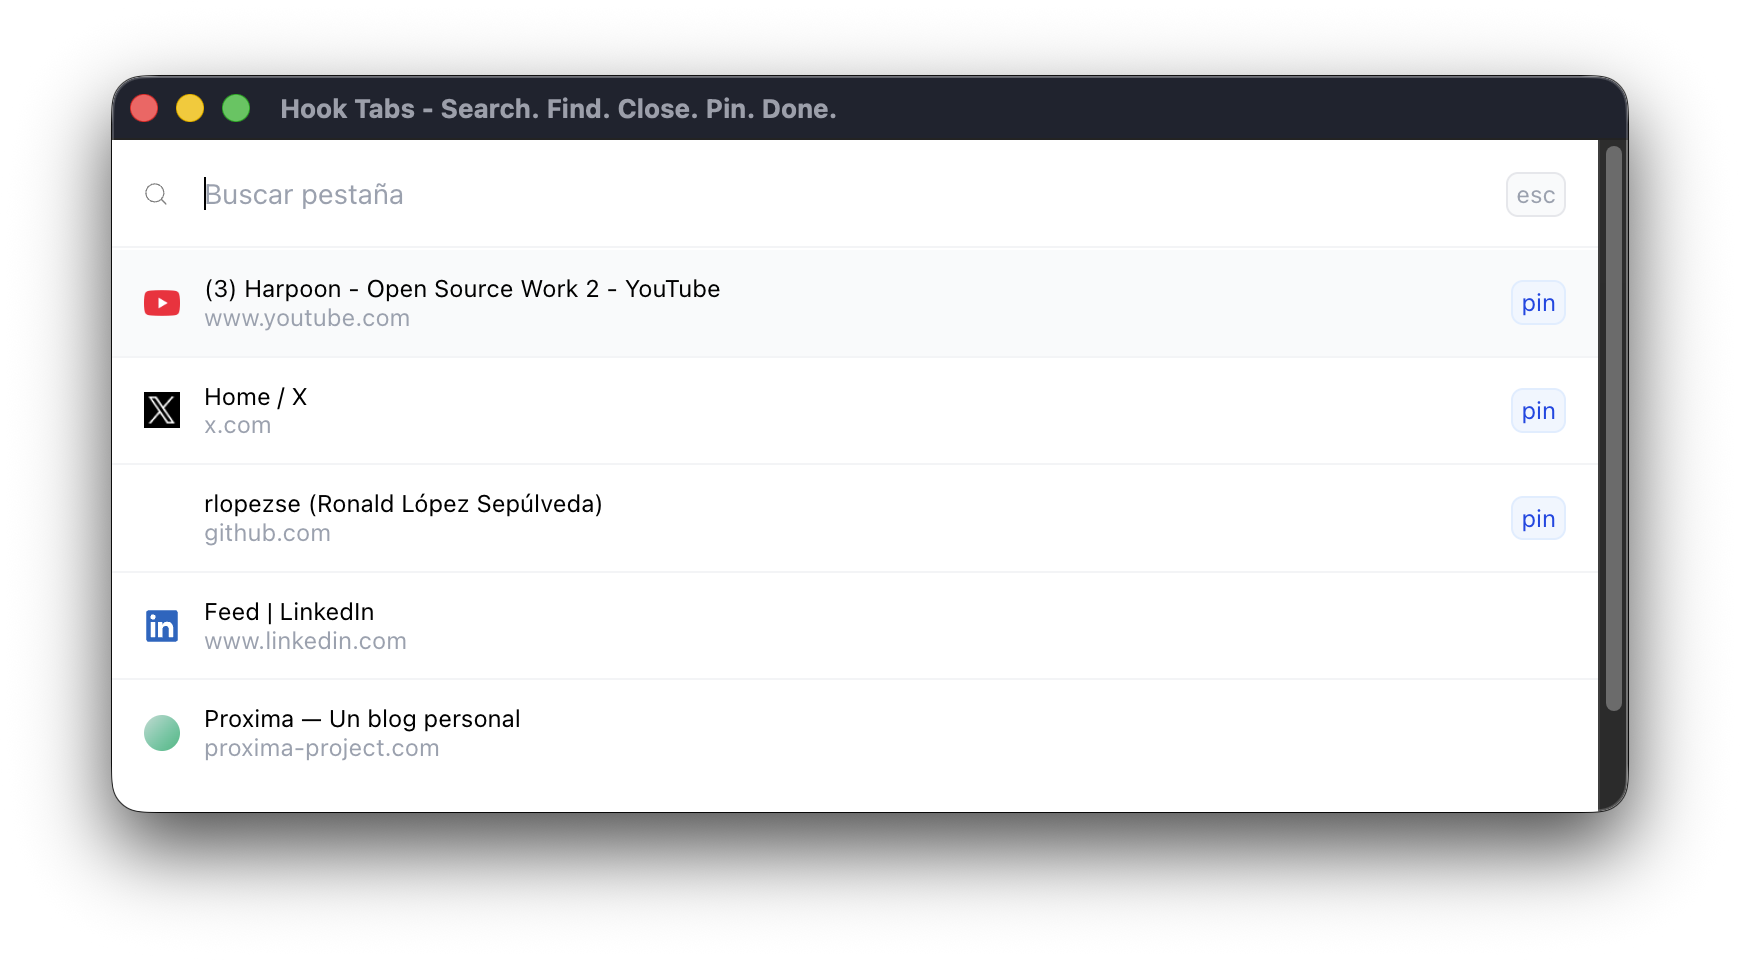
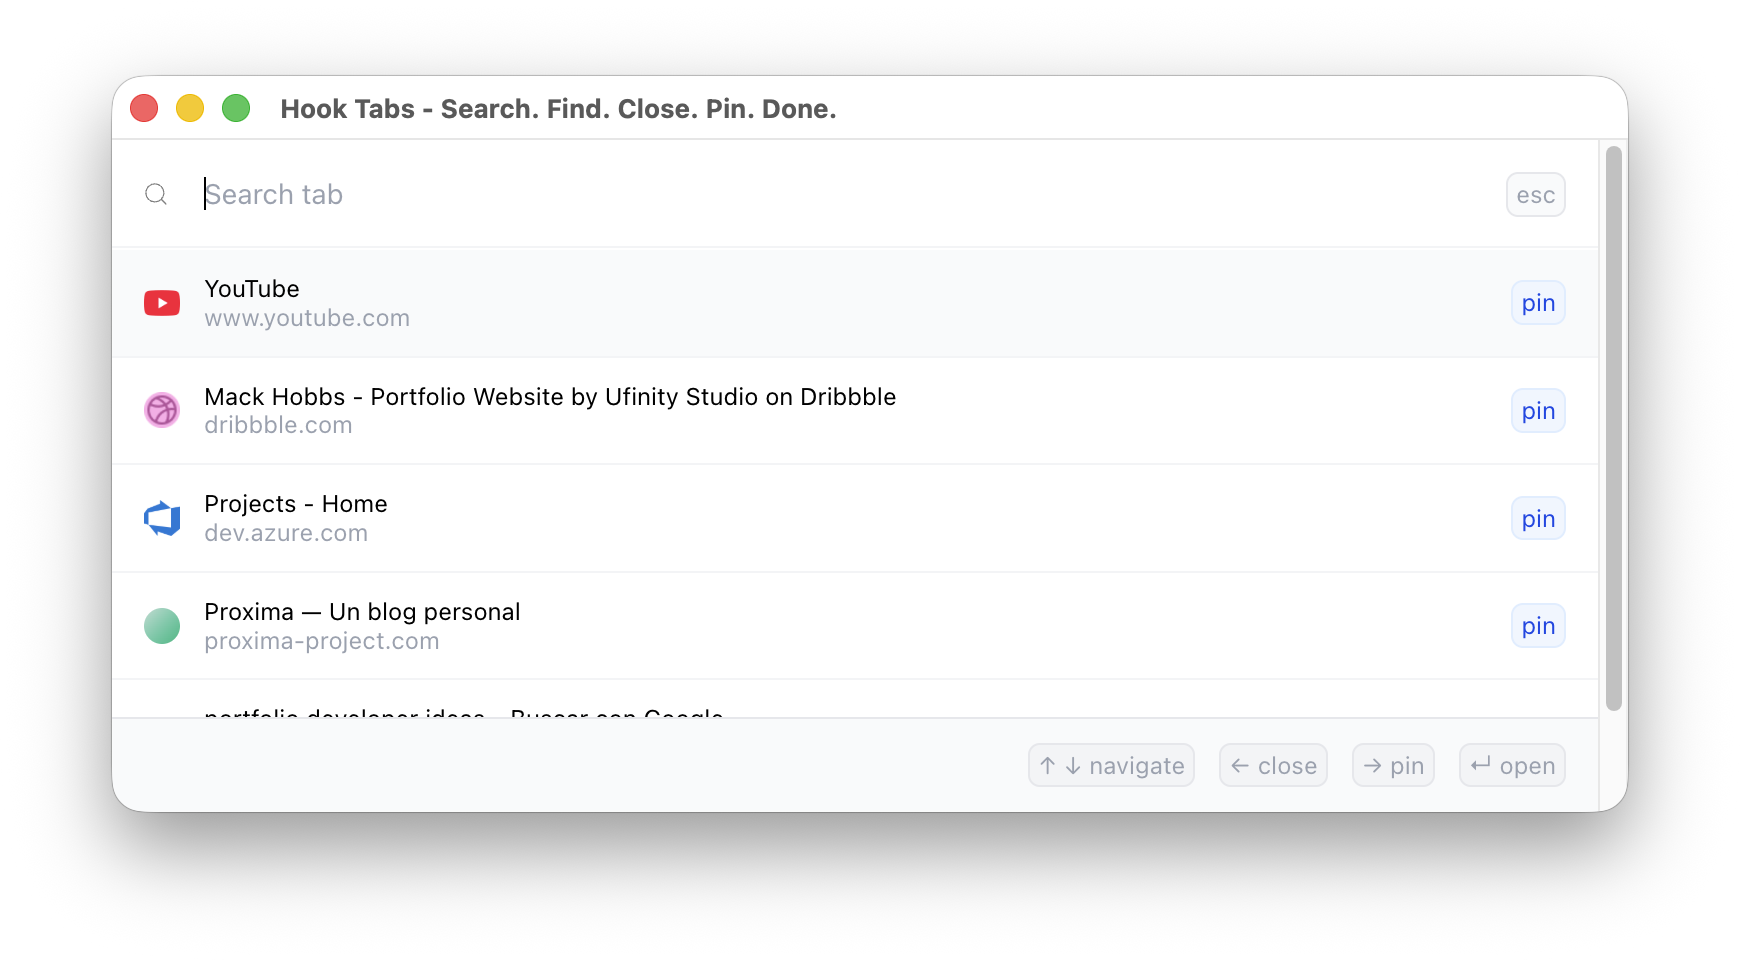
updated: new screenshoot

Changed region(s): [[0.031, 0.0625, 0.9621, 0.9062], [0.1241, 0.2812, 0.4034, 0.3125], [0.1241, 0.1875, 0.2483, 0.2188]]

diff --git a/README.md b/README.md
@@ -1,6 +1,6 @@
 # Hook Tabs
 
-![Hook Tabs screenshot](./docs/screenshot.png)
+![Hook Tabs screenshot](./docs/screenshot.png?v=1)
 
 Hook Tabs es un proyecto personal que creé porque me cansé de tener que recorrer pestaña por pestaña para encontrar una en particular, o depender del mouse para hacerlo.
 
